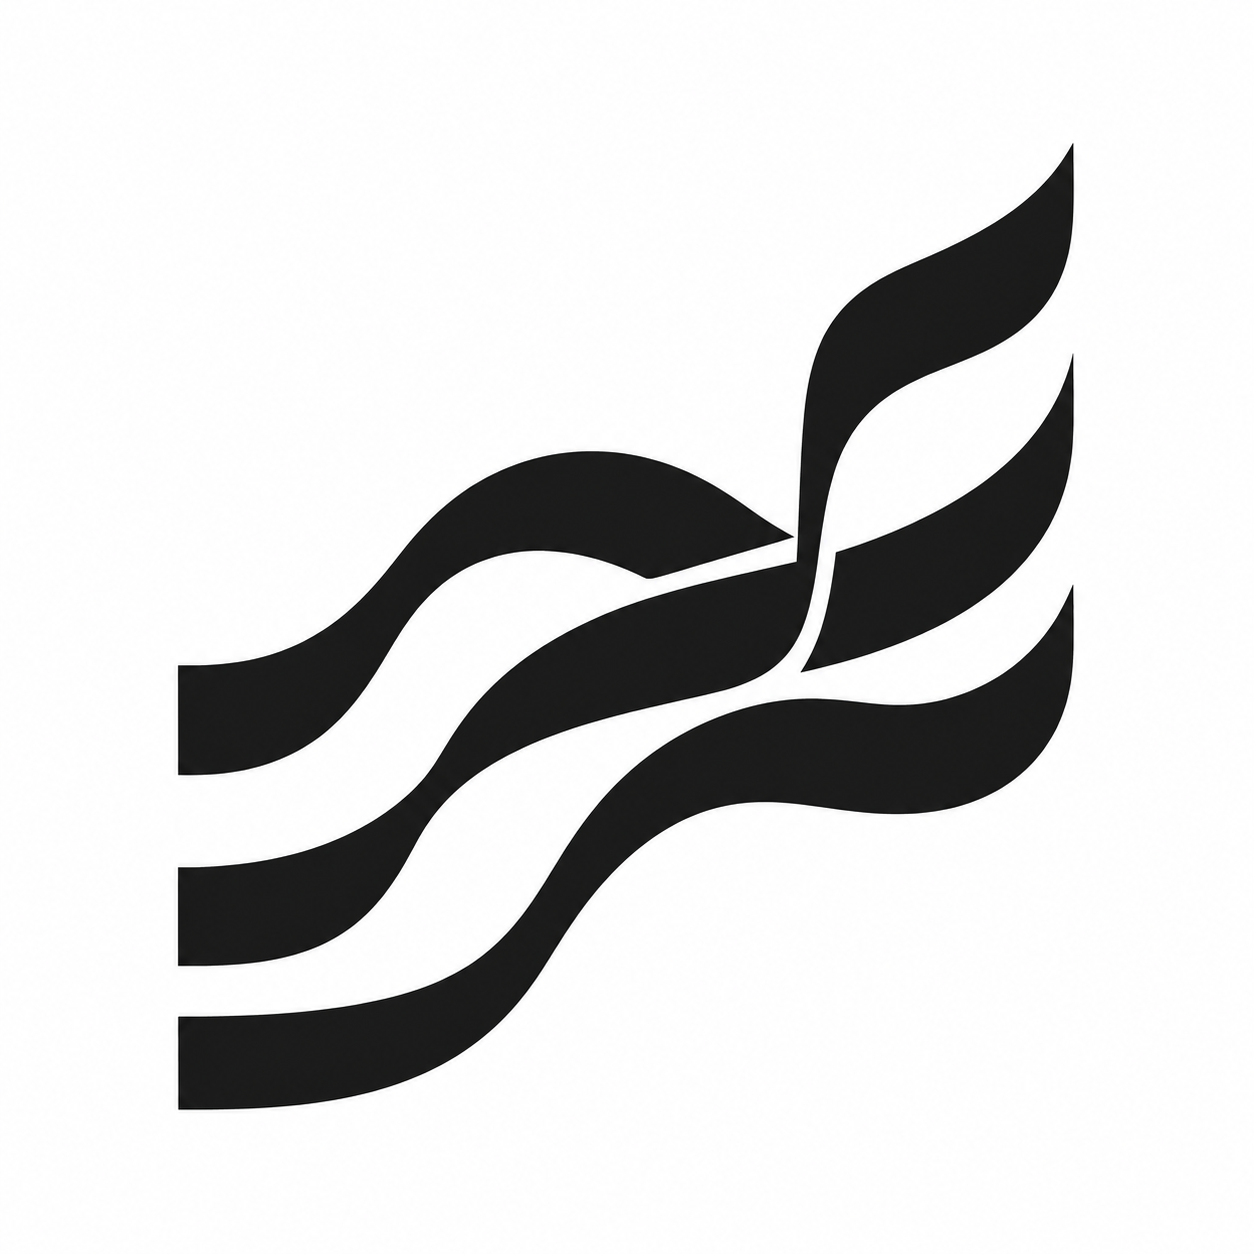
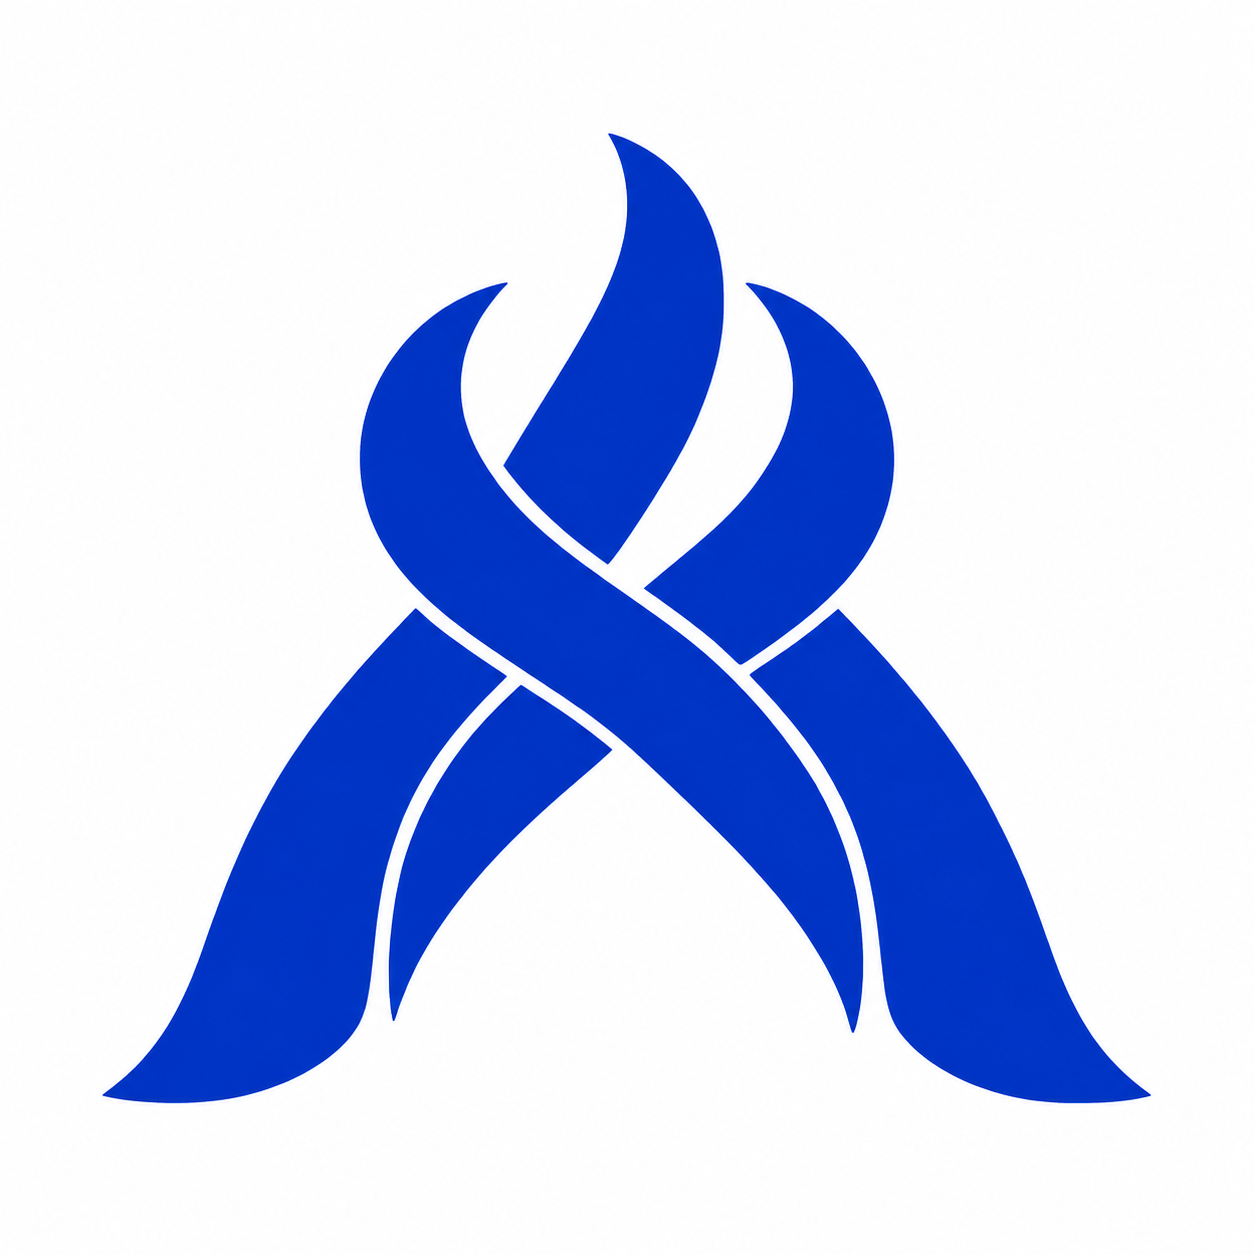
Refine Bachy branding with an abstract rising fugue emblem

diff --git a/docs/assets/README.md b/docs/assets/README.md
@@ -1,14 +1,18 @@
 # Bachy brand assets
 
-- `bachy-counterpoint.png`: the current abstract logo, dark ink on an opaque white background.
+- `bachy-counterpoint.png`: the current abstract fugue emblem, ultramarine blue on an opaque white background.
 - `bachy-browser.png`: an actual Bachy browser capture using disposable sample files, not a generated UI.
 
 ## Concept
 
-The mark takes its inspiration from Bach's counterpoint: independent voices retain their character while forming a coherent whole. Three flowing bands suggest rhythm, movement and a shared direction. It is an abstract interpretation, without a portrait or literal musical notation.
+The emblem draws on the interweaving voices of Bach's music. Broad ribbons cross and rise into an open, flame-like arch: a visual expression of harmony, movement and possibility. The inspiration is musical and abstract, with no portrait or literal musical notation.
 
-Created with the built-in imagegen tool on 26 September 2026. The original generated PNG is preserved without raster post-processing. This is a repository branding asset; the existing in-app vector glyph remains until a consistent small-size icon family is prepared.
+Created and refined with the built-in imagegen tool on 26 September 2026. The final generated PNG is preserved without raster post-processing. Reviewed at 320 px and the README's 192 px size in [Bachy's Paper design file](https://app.paper.design/file/01M3DNAMX5PQERN25GEWE1PN05/p-1-0), on the “Bachy — abstract fugue emblem” board. This is a repository branding asset; the existing in-app vector glyph remains until a consistent small-size icon family is prepared.
 
 ## Generation prompt
 
-Use case: logo-brand. Design a sophisticated ABSTRACT logo for Bachy, inspired by the counterpoint, rhythmic order and expressive movement of Johann Sebastian Bach's music. This is an abstract visual metaphor for a fugue: three independent flowing bands enter at different heights, weave through a compact composition with deliberate negative-space gaps, and resolve into a harmonious upward movement. Find a distinctive, elegant silhouette with the rigor of a modernist music-publisher symbol and a restrained hint of Baroque calligraphy. Bold smooth shapes, precise optical balance, only a few broad curves; readable as a small app icon. It should feel intelligent, fluid and quietly inspirational, not technical clipart. Flat near-black ink on a completely OPAQUE solid WHITE square canvas. Keep the emblem centered and occupying roughly 70 percent of the canvas. ABSOLUTE exclusions: no person, no face, no wig, no portrait, no bust, no photo, no sheet music, no literal musical notes, no treble clef, no folder, no letters or wordmark, no infinity sign, no AI-style hexagonal knot, no circular badge frame, no shadows, no 3D, no gradients, no mockup, no decorative background. One polished abstract mark only.
+Use case: logo-brand. Create a single beautiful abstract emblem for Bachy, a file manager inspired by Johann Sebastian Bach. Convey the feeling of a fugue: independent melodic voices, rigorous harmony, unfolding possibility, and uplifting movement. Three broad calligraphic ribbons rise, cross once with crisp negative-space separations, and curve into a poised open arch. A compact, surprising and memorable silhouette, subtle baroque movement distilled into modern Swiss graphic restraint. A symbol that feels quietly inspirational and intellectually alive. One solid deep ultramarine-blue ink on a pure white square background. Flat vector-like artwork with immaculate edges, large generous curves, strong optical balance and enough negative space to read at small size. Center the emblem, occupying 70 percent of the square. No text, no letters, no person, no face, no portrait, no wig, no bust, no photographic rendering, no musical notes, no treble clef, no folder, no infinity loop, no generic AI knot, no ornate filigree, no shadows, no gradients, no 3D, no mockup. Deliver only the finished emblem.
+
+## Refinement prompt
+
+Refine this logo for production. Preserve the exact abstract rising-ribbon emblem, its composition and deep ultramarine-blue color. Make every ribbon a perfectly FLAT solid blue fill; remove all speckled pixels, pale edge outlines, texture, gradients and uneven color. Use crisp smooth antialiased edges. Place it on a completely OPAQUE pure white #FFFFFF background across the entire square, including all the gaps between the ribbons. Do not use transparency. Keep all shapes and positions unchanged. No text or additional elements.

diff --git a/README.md b/README.md
@@ -1,5 +1,5 @@
 <p align="center">
-  <img src="docs/assets/bachy-counterpoint.png" width="192" alt="Bachy abstract counterpoint logo: three flowing bands">
+  <img src="docs/assets/bachy-counterpoint.png" width="192" alt="Bachy abstract fugue logo: blue ribbons intertwining and rising">
 </p>
 
 # Bachy
